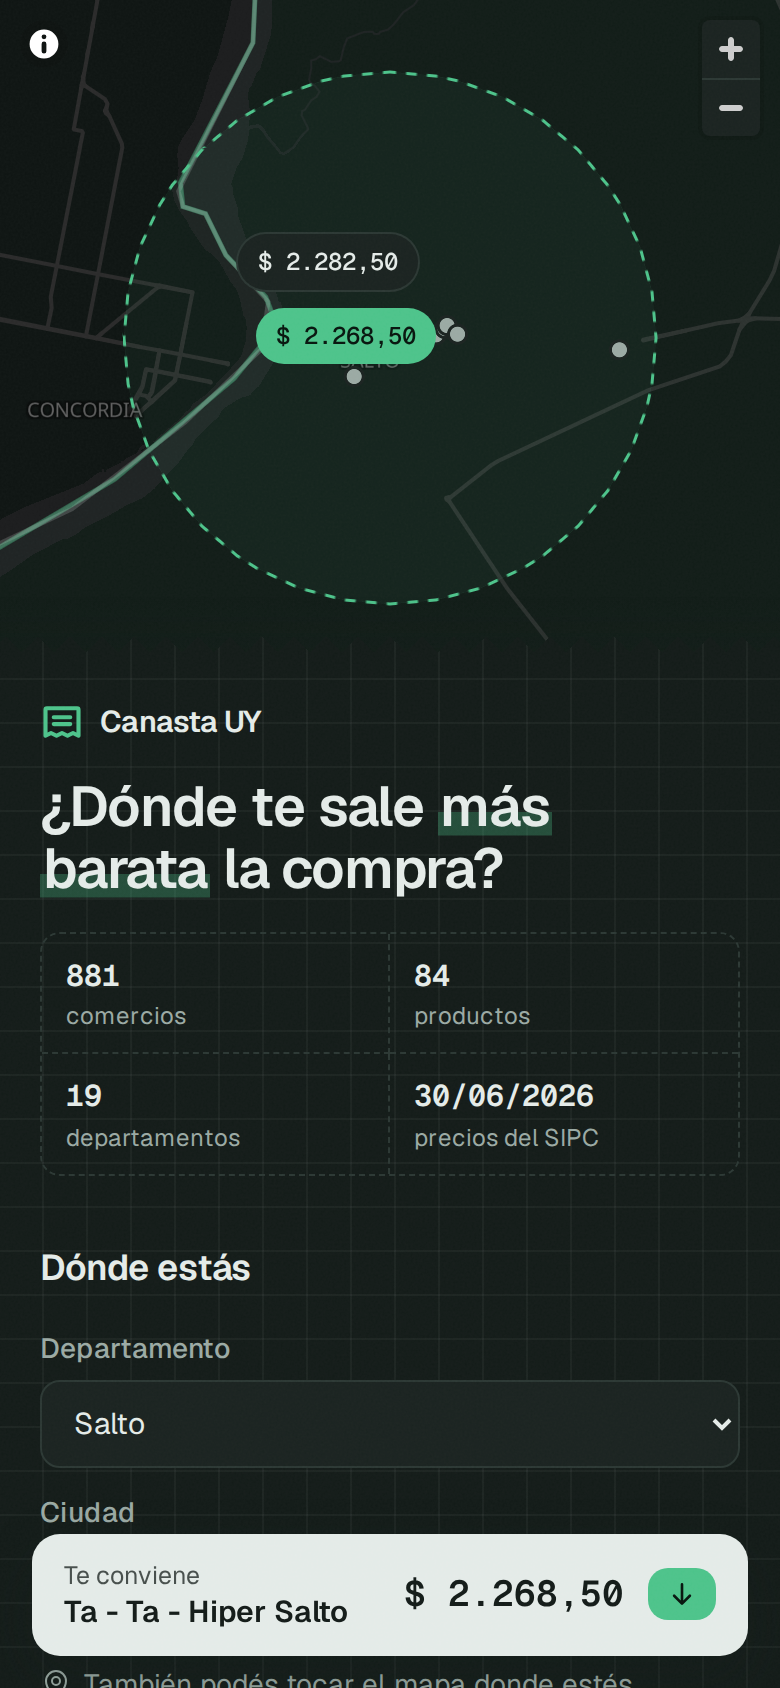
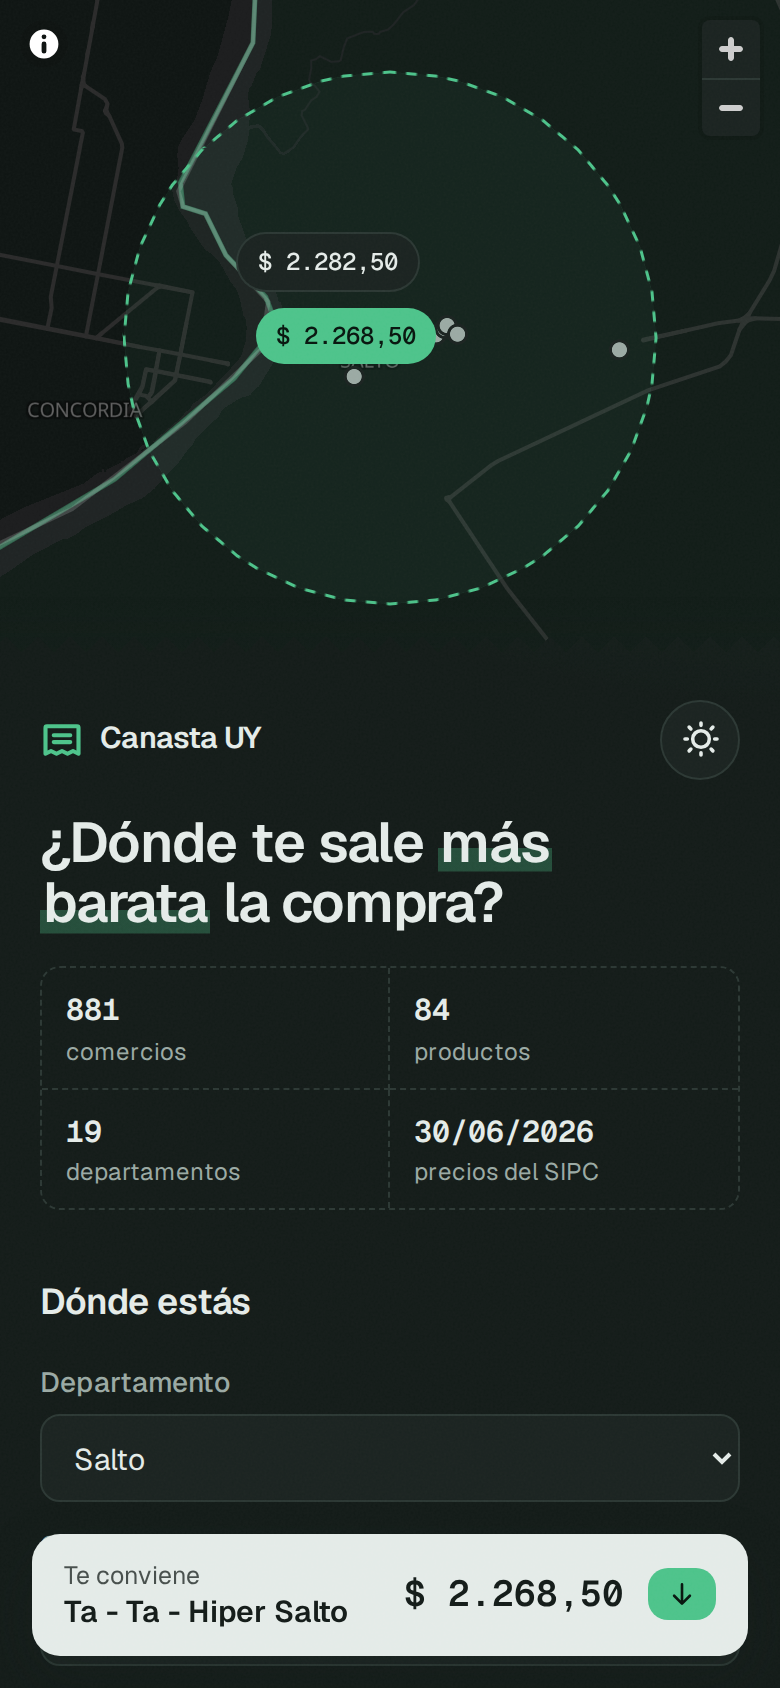
Web: fondo del panel con manchas pastel en lugar de la cuadrícula

diff --git a/web/src/styles.css b/web/src/styles.css
@@ -226,21 +226,25 @@ body::after {
   }
 }
 
-/* Textura del panel: la libreta cuadriculada del almacén de barrio, donde se anota lo que
-   se lleva "fiado". Solo CSS, sin imágenes; "local" hace que se desplace con el contenido. */
-.papel-libreta {
-  --cuadricula: rgb(22 122 79 / 0.075);
+/* Fondo del panel: manchas pastel difusas, como acuarela sobre papel (menta, que sale del
+   acento, durazno y manteca). Se ubican respecto del panel: en la computadora el panel tiene
+   su propio scroll y las manchas quedan quietas detrás del contenido. El grano de papel de
+   body::after les da textura encima. */
+.fondo-pastel {
   background-color: var(--color-panel);
   background-image:
-    linear-gradient(var(--cuadricula) 1px, transparent 1px),
-    linear-gradient(90deg, var(--cuadricula) 1px, transparent 1px);
-  background-size: 22px 22px;
-  background-position: -1px -1px;
-  background-attachment: local;
+    radial-gradient(38rem 26rem at 105% -5%, rgb(178 228 200 / 0.62), transparent 70%),
+    radial-gradient(30rem 24rem at -10% 32%, rgb(255 212 186 / 0.55), transparent 70%),
+    radial-gradient(34rem 26rem at 110% 68%, rgb(255 234 170 / 0.5), transparent 70%),
+    radial-gradient(32rem 24rem at 0% 105%, rgb(190 232 222 / 0.55), transparent 70%);
 }
 
-:root[data-tema="oscuro"] .papel-libreta {
-  --cuadricula: rgb(228 235 232 / 0.045);
+:root[data-tema="oscuro"] .fondo-pastel {
+  background-image:
+    radial-gradient(38rem 26rem at 105% -5%, rgb(76 195 138 / 0.12), transparent 70%),
+    radial-gradient(30rem 24rem at -10% 32%, rgb(255 170 130 / 0.07), transparent 70%),
+    radial-gradient(34rem 26rem at 110% 68%, rgb(255 214 120 / 0.06), transparent 70%),
+    radial-gradient(32rem 24rem at 0% 105%, rgb(110 200 180 / 0.08), transparent 70%);
 }
 
 /* Botón de tema: el ícono que sale gira y se achica mientras aparece el otro */

diff --git a/web/src/App.tsx b/web/src/App.tsx
@@ -88,7 +88,7 @@ export default function App() {
           className="pointer-events-none absolute inset-x-0 bottom-0 h-10 bg-linear-to-t from-[rgb(20_32_27_/_0.14)] to-transparent lg:inset-x-auto lg:inset-y-0 lg:right-0 lg:h-auto lg:w-10 lg:bg-linear-to-l"
         />
       </section>
-      <aside className="panel-cortado papel-libreta relative -mt-5 flex flex-col gap-8 px-5 pt-8 pb-16 lg:z-10 lg:mt-0 lg:-ml-2 lg:overflow-y-auto lg:px-8 lg:pt-10 lg:pl-10">
+      <aside className="panel-cortado fondo-pastel relative -mt-5 flex flex-col gap-8 px-5 pt-8 pb-16 lg:z-10 lg:mt-0 lg:-ml-2 lg:overflow-y-auto lg:px-8 lg:pt-10 lg:pl-10">
         <Encabezado
           ultimoPrecio={ultimoPrecio}
           comercios={ciudades.reduce((total, c) => total + c.comercios, 0)}

diff --git a/docs/CONTEXTO.md b/docs/CONTEXTO.md
@@ -294,7 +294,8 @@ Para el objetivo actual (web de compras al menor costo en Uruguay):
    estructura: grano de papel térmico, panel con borde dentado de ticket y sombra sobre el
    mapa, íconos por categoría, resaltador en el título, talón con datos reales (comercios,
    productos, departamentos, fecha) y cantidades animadas.
-   Botón de tema (sol/luna): por defecto sigue al sistema; la elección se guarda en el
+   Fondo del panel: manchas pastel difusas (menta, durazno, manteca), en lugar de la
+   cuadrícula que no le gustó a Augusto. Botón de tema (sol/luna): por defecto sigue al sistema; la elección se guarda en el
    navegador y un script en `index.html` la aplica antes de dibujar (sin destello). El CSS
    usa `:root[data-tema="oscuro"]` en lugar de `prefers-color-scheme`.
 5. **Usuarios y tickets:** cuentas, subir el ticket (investigar el QR del CFE de la DGI;
